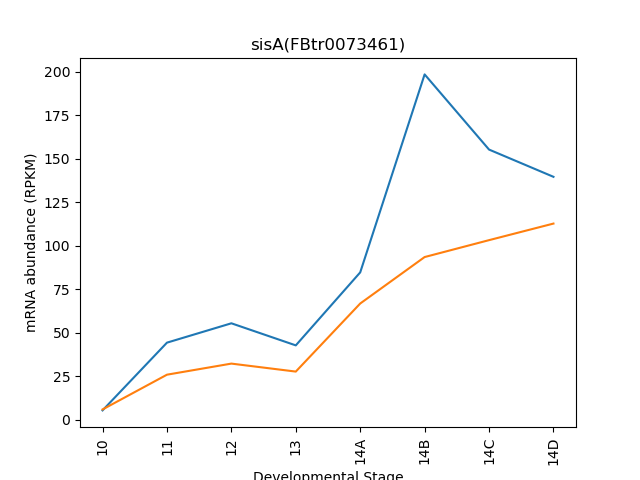
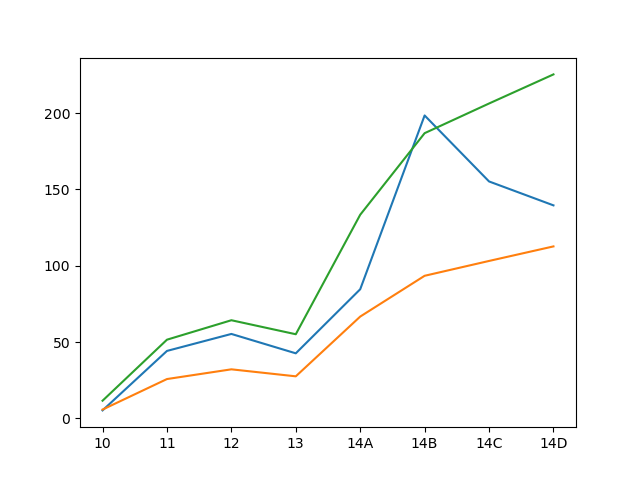
Add answer for exercise 1, step 3

diff --git a/day2-homework/plot-sxl.py b/day2-homework/plot-sxl.py
@@ -56,6 +56,9 @@ for i in range(len(samples)):
 expression_female = data[row, cols_females] #generating an expression set for the subset of females expressing at the value of that specific transcript
 expression_male = data[row, cols_males] #generating an expression set for subset of males expressing gene of interest
 
+# Adding 2* male data (Exercise 1, part 3)
+expression_male_2 = 2* np.array(expression_male) #doubling expression values for males and storing in a separate array
+
 
 # Prepare data
 x_female = samples[cols_females]
@@ -64,16 +67,20 @@ x_male = samples[cols_males]
 x_male = np.char.strip(x_male, 'male_') #stripping the 'male_' text from the x-axis, so that male and female developmental stages can overlap.
 y_female = expression_female #setting up expression data for females
 y_male = expression_male  #setting up expression data for males
+y_male_2 = expression_male_2 #Setting up expression data for 2*males
 
 # Plotting data- males and females should be on the same x-axis
-fig1, ax1 = plt.subplots()
+fig1, ax1 = plt.subplots() #setting up figure 1
 
 ax1.plot(x_female, y_female) #plotting female expression data
 ax1.plot(x_male, y_male) #plotting male expression data
-ax1.set_title( "sisA(FBtr0073461)" )
+ax1.plot(x_male,y_male_2) #plotting 2* male expression data
+""" commenting out labels to add in for exercise 4
+ax1.set_title( "sisA(FBtr0073461)" ) 
 ax1.set_ylabel("mRNA abundance (RPKM)")
 ax1.set_xlabel("Developmental Stage")
 plt.xticks(rotation=90) #rotating x-axis label by 90 degrees
+"""
 fig1.savefig( "FBtr0073461.png" ) #saving figure as a png file
 plt.close( fig1 ) #closing figure
 
